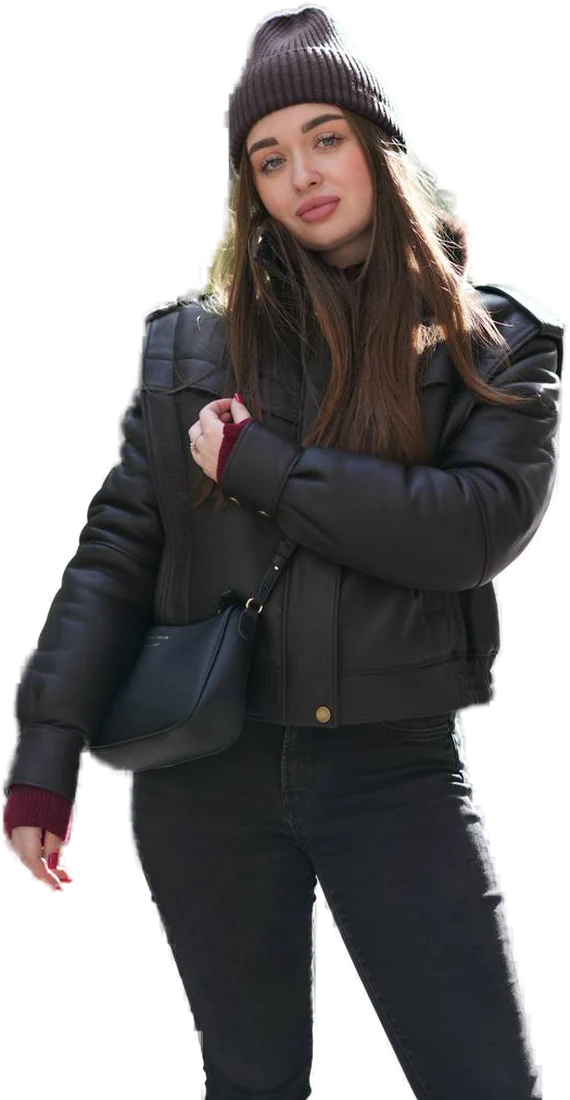
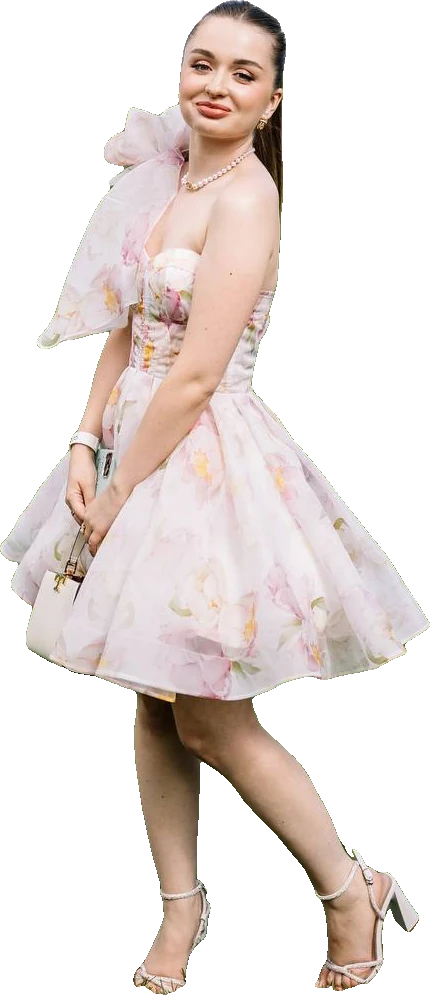
Нове фото іменинниці на першому екрані
Claude-Session: https://claude.ai/code/session_01WnwoMoQAV8puL4EJ6copgA

diff --git a/host.html b/host.html
@@ -5,7 +5,7 @@
 <meta name="viewport" content="width=device-width,initial-scale=1">
 <title>Квіз · екран ведучого</title>
 <link rel="preconnect" href="https://fonts.googleapis.com">
-<link rel="stylesheet" href="style.css?v=1795275628">
+<link rel="stylesheet" href="style.css?v=1795275988">
 <link rel="stylesheet" id="tf">
 <style>
   body { font-size: clamp(14px, 1.6vmin, 22px); }
@@ -172,16 +172,16 @@
   </div>
 </div>
 
-<script>window.VQ_V='1795275628'</script>
-<script src="lib/mqtt.min.js?v=1795275628"></script>
-<script src="lib/qrcode.js?v=1795275628"></script>
-<script src="common.js?v=1795275628"></script>
-<script src="lib/gsap.min.js?v=1795275628"></script>
-<script src="liquid.js?v=1795275628"></script>
-<script src="stagefx.js?v=1795275628"></script>
-<script src="doodle.js?v=1795275628"></script>
-<script src="nerdfx.js?v=1795275628"></script>
-<script src="fx.js?v=1795275628"></script>
+<script>window.VQ_V='1795275988'</script>
+<script src="lib/mqtt.min.js?v=1795275988"></script>
+<script src="lib/qrcode.js?v=1795275988"></script>
+<script src="common.js?v=1795275988"></script>
+<script src="lib/gsap.min.js?v=1795275988"></script>
+<script src="liquid.js?v=1795275988"></script>
+<script src="stagefx.js?v=1795275988"></script>
+<script src="doodle.js?v=1795275988"></script>
+<script src="nerdfx.js?v=1795275988"></script>
+<script src="fx.js?v=1795275988"></script>
 <script>
 /* Якщо браузер підсунув старі файли з кешу: одне перезавантаження зі свіжими */
 if (!window.VQ || !VQ.applyTheme || !VQ.kin) {
@@ -189,7 +189,7 @@ if (!window.VQ || !VQ.applyTheme || !VQ.kin) {
 } else { try { sessionStorage.removeItem('vq_rl'); } catch (e) {} }
 window.addEventListener('error', e => { const d = document.createElement('div'); d.style.cssText = 'position:fixed;left:8px;bottom:8px;z-index:9999;background:#fff;color:#b00;font:12px monospace;padding:6px 10px;border-radius:8px;max-width:90vw'; d.textContent = 'Помилка: ' + e.message; document.body && document.body.appendChild(d); });
 </script>
-<script src="questions.js?v=1795275628"></script>
+<script src="questions.js?v=1795275988"></script>
 <script>
 const { Sfx, esc } = VQ;
 const LS_GAME = 'vq_host_game', LS_Q = 'vq_questions', LS_MUTE = 'vq_mute';
@@ -452,7 +452,7 @@ function drawInner() {
 function plural(n) { return n % 10 === 1 && n % 100 !== 11 ? 'гравець' : (n % 10 >= 2 && n % 10 <= 4 && (n % 100 < 10 || n % 100 > 20)) ? 'гравці' : 'гравців'; }
 /* Герой свята на першому екрані: фото без фону + привітання з голови */
 const LS_HERO = 'vq_hero';
-function heroSrc() { const h = ls.get(LS_HERO); return h === 'none' ? '' : (h || 'hero.webp'); }
+function heroSrc() { const h = ls.get(LS_HERO); return h === 'none' ? '' : (h || 'hero.webp?v=' + (window.VQ_V || '')); }
 function heroHtml() {
   const src = heroSrc(); if (!src) return '';
   const greet = G.greet || 'Привіт! Сьогодні моє свято 🎉 Перевіримо, хто знає мене найкраще?';

diff --git a/index.html b/index.html
@@ -6,7 +6,7 @@
 <meta name="theme-color" content="#160d2e">
 <title>Квіз</title>
 <link rel="preconnect" href="https://fonts.googleapis.com">
-<link rel="stylesheet" href="style.css?v=1795275628">
+<link rel="stylesheet" href="style.css?v=1795275988">
 <link rel="stylesheet" id="tf">
 <style>
   body { font-size: 17px; }
@@ -51,15 +51,15 @@
   <div class="top"><span class="me" id="me"><span class="dot connecting"></span></span><span class="pts" id="pts"></span></div>
   <div class="scr" id="scr"></div>
 </div>
-<script>window.VQ_V='1795275628'</script>
-<script src="lib/mqtt.min.js?v=1795275628"></script>
-<script src="common.js?v=1795275628"></script>
-<script src="lib/gsap.min.js?v=1795275628"></script>
-<script src="liquid.js?v=1795275628"></script>
-<script src="stagefx.js?v=1795275628"></script>
-<script src="doodle.js?v=1795275628"></script>
-<script src="nerdfx.js?v=1795275628"></script>
-<script src="fx.js?v=1795275628"></script>
+<script>window.VQ_V='1795275988'</script>
+<script src="lib/mqtt.min.js?v=1795275988"></script>
+<script src="common.js?v=1795275988"></script>
+<script src="lib/gsap.min.js?v=1795275988"></script>
+<script src="liquid.js?v=1795275988"></script>
+<script src="stagefx.js?v=1795275988"></script>
+<script src="doodle.js?v=1795275988"></script>
+<script src="nerdfx.js?v=1795275988"></script>
+<script src="fx.js?v=1795275988"></script>
 <script>
 /* Якщо браузер підсунув старі файли з кешу: одне перезавантаження зі свіжими */
 if (!window.VQ || !VQ.applyTheme || !VQ.kin) {
